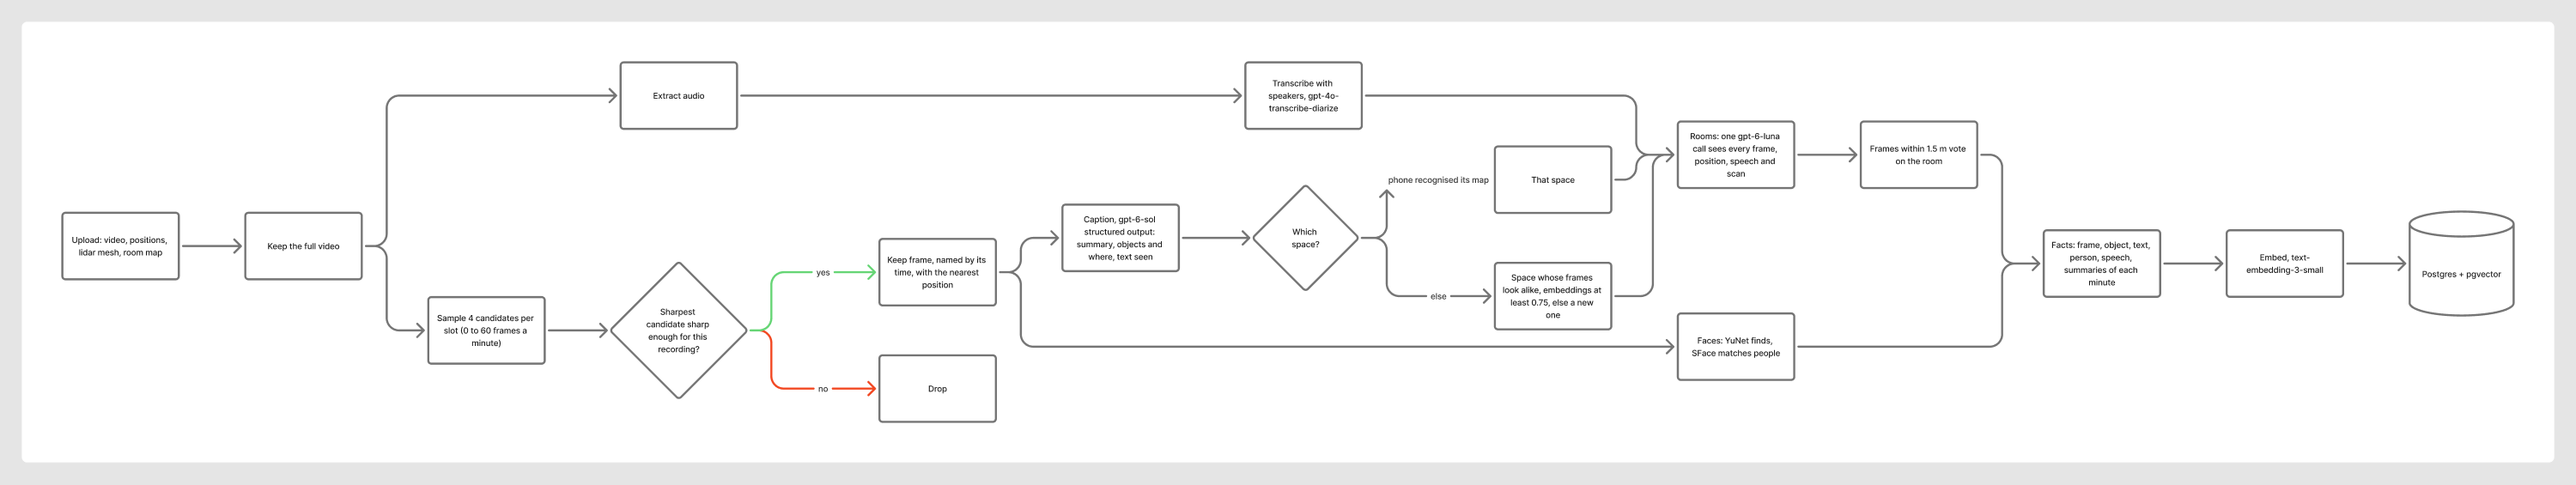
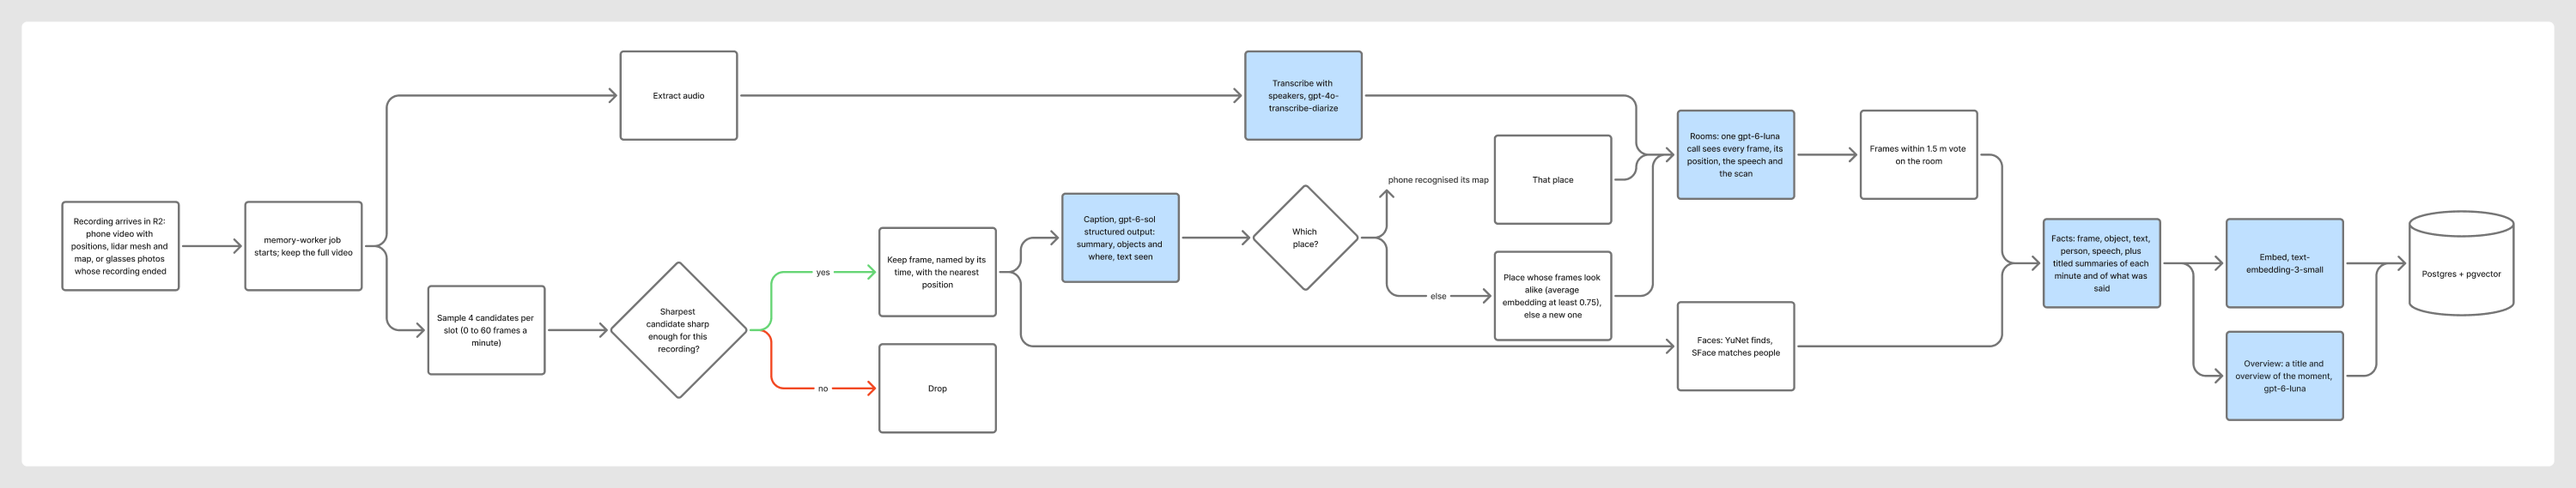
The README maps the repo: where things live, what happens to a photo and to a question, and the commands; the guide is trimmed to goals, rules and what isn't obvious; diagrams and log refreshed

diff --git a/CLAUDE.md b/CLAUDE.md
@@ -10,39 +10,32 @@ what a sign said, who they talked to, what they were doing, where something is. 
 ## Shape
 
 Recording -> kept frames and audio -> captions and transcript -> small facts, each embedded with its context,
-in Postgres (pgvector) -> agent with search tools -> judge and cost log. An iPhone app sits on top, and the glasses firmware comes last.
+in Postgres (pgvector) -> agent with search tools -> judge and cost log. An iPhone app sits on top, and the glasses
+send it photos.
 
 Words: a **moment** is one recording, start to finish; a **frame** is one photo kept from it; a **segment** is a
-stretch of a moment at one **place**, or on the move. Chats are stored as raw **messages**; every model call is a
-**model_call**, linked to the message or frame it was for.
+stretch of a moment at one **place**, or on the move; a **room** is a part of a place. Chats are stored as raw
+**messages**; every model call is a **model_call**, linked to the message or frame it was for.
+
+Where things live, what happens to a photo and to a question, and the commands (`make`) are in `README.md`. Keep
+it true when files move.
 
 ## Build plan
 
-Each part runs by itself and ends with something to look at. Parts 1 to 8 work from a recorded video.
+Each part runs by itself and ends with something to look at.
 
 1. **Recording to moment** (done): a video becomes kept frames and audio.
 2. **Database** (done): moments and frames stored in Postgres.
 3. **Captions** (done): each frame gets a summary, objects with where each one is, and text seen.
 4. **Speech-to-text** (done): the audio becomes timed transcript lines.
-5. **Facts and search** (done): captions and speech become facts, plus model-written summaries of each
-   minute and of what was said, and search finds them.
-6. **Agent** (done): ask a question, get an answer with its sources. The agent has two tools, search and
-   timeline; `--plain` is one search and one call, the baseline the evals compare it with.
-7. **Evals** (done): `memory.evals` asks every test question in both modes; a judge model grades each
-   answer, and the run reports scores, whether the right fact was retrieved, and cost. Each question has a `kind` and its
-   file names the moments it is about, so scores are reported per kind and stay stable as recordings are added;
-   `--repeat N` shows the spread.
-8. **API** (done): `memory/api.py` (FastAPI) serves moments, a moment's timeline, frame images, ask,
-   stats and settings. `POST /conversations/{id}/ask/stream` sends each step, the answer as it is written (with
-   [1] markers for its sources) and then the stored turn, as server-sent events. Chats get a title from a cheap
-   model; `/suggestions` writes questions from the newest records.
-9. **iPhone app** (done): SwiftUI in `app/`, with Ask (chats saved on the server, with follow-ups), Timeline,
-   Stats and Glasses screens. Tapping a source opens its frame: the photo, nearby frames, what was said, audio. Build and run
-   it in the iOS Simulator; the server's address is built in (`app/Config.xcconfig`).
-10. **Glasses firmware** (photos work, audio next): `firmware/glasses` builds `camera_test`, `display_test` and
-    `glasses`. The glasses send a photo at the frames-per-minute setting to the phone over Bluetooth, which
-    uploads it (`POST /glasses/frames`); a recording that stops becomes a moment. They run on the iPhone's USB-C power; the
-    battery isn't working yet.
+5. **Facts and search** (done): captions and speech become facts and summaries, and search finds them.
+6. **Agent** (done): an answer with its sources, from three tools (search, timeline, nearby). `--plain` is one
+   search and one call, the baseline the evals compare it with.
+7. **Evals** (done): every test question in each mode, graded by a judge model, scored per kind of question.
+8. **API** (done): FastAPI in `memory/api/`, one file per area. Answers stream as server-sent events.
+9. **iPhone app** (done): Ask, Timeline, Glasses, Places, People, Record and Stats.
+10. **Glasses firmware** (photos work, audio next): photos go to the phone over Bluetooth, with Wi-Fi as the
+    fallback; firmware updates arrive over Bluetooth. They run on USB-C power; the battery isn't working yet.
 
 ## Constraints
 
@@ -62,54 +55,33 @@ Each part runs by itself and ends with something to look at. Parts 1 to 8 work f
 
 Everything else is your call.
 
-## Handy
+## Good to know
 
-- Tests: `uv run pytest` in `server/`.
-- Every step runs from `server/` as `uv run python -m <module>`; `--help` lists its options.
-- Process a video in one go: `memory.pipeline <video> [--frames-per-minute N]` (frames, captions, transcript,
-  faces, facts). The single steps still run on their own: `memory.ingest.recording`, `.captions`, `.transcript`,
-  `.faces`, `.facts`. The original video is kept in the moment folder. Then `memory.agent "question"` (add
-  `--plain` for the baseline), or `memory.search "question"` to see the raw facts.
-- The app records moments on an iPhone through ARKit and uploads them (`POST /moments`); they process in the
-  background. Recording needs a real iPhone; the Simulator has no camera tracking. With a recording come
-  `poses.json` (where the phone was, 10 times a second), and on Pro phones `mesh.obj` (the lidar scan) and
-  `world.map` (ARKit's map, used to recognise the place next time).
-- A **place** is somewhere such as an apartment or a lecture hall, with an optional name, GPS circle and phone map. A
-  moment is filed at the place the phone's map recognised, else the place whose frames look most alike (average
-  embedding at least 0.75); for now each moment is one segment. GPS points are kept over time in `location`. Each
-  frame gets a **room** from one model call per moment that sees every frame, its position, the speech and the scan,
-  then a vote of frames within 1.5 m. `memory.places list`, `label <moment id>`, `rebuild`. Maps are in `data/places/`.
+- There is no local server mode. The server runs on Cloud Run (project `memory-glasses-2611`, `us-west1`), the
+  database is Neon and files are in Cloudflare R2; `data/` is a working copy that fills itself as files are needed.
+  The Mac runs the command-line steps against the same database and bucket, so they act on real data.
+- It is meant to cost $0 apart from OpenAI. Model prices are in `server/prices.json`; a model with no price there
+  is refused before any call.
+- New tables go in a new numbered file in `server/migrations/`; they are applied on the next connection.
+- Few bytes pass through the server: file requests redirect to short-lived R2 links, the app and the glasses
+  upload straight to R2, and captions give OpenAI an R2 link.
+- A glasses recording ends when the phone or glasses say so, or after five minutes without a photo. Photos that
+  arrive later start a new part. Photos are filed by when they were taken, not when they arrived.
+- A moment is filed at the place the phone's map recognised, else the place whose frames look most alike (average
+  embedding at least 0.75); for now each moment is one segment. Rooms come from one model call per moment, then a
+  vote of frames within 1.5 m.
 - A moment can be reprocessed at another frames per minute from its kept video; frames are named by their time,
   so ones that already exist keep their captions.
-- The agent has three tools: search, timeline and nearby (what was seen near a frame, in the same mapped place).
-  `memory.evals --mode agent --mode no-nearby` compares it with and without nearby.
-- People: `memory.people list`, `name <id> "Sam"`, `merge <id> <into id>`, `forget <id>`, or the People screen in
-  the app. Faces use OpenCV's YuNet and SFace models in the ignored `server/models/` (from github.com/opencv/opencv_zoo).
-  The user has written consent from the people recorded.
-- Named GPS spots: `memory.gps add "Home" <lat> <lon> --radius 75`, `memory.gps list`.
-- Model prices are in `server/prices.json`. A model with no price there is refused before any call.
-- Glasses over Bluetooth (in progress): the firmware advertises "Memory Glasses" and streams frames, takes settings and
-  firmware updates over BLE (service 6e1f0001-…); with no phone for 30 s it falls back to Wi-Fi. Phone and glasses prove to each other
-  that they hold the server token before photos, settings or updates pass. `firmware/glasses/flash.sh`
-  flashes over USB with the two-slot OTA partition table; `publish.sh` uploads the app image and `firmware/latest.json` to R2.
-- The Bluetooth protocol is defined once, in the Rust crate `firmware/protocol`. `firmware/protocol/check.sh` runs its
-  tests, regenerates `app/MemoryGlasses/Glasses/GlassesProtocol.swift` and `vectors.json`, and checks the app's Swift packet
-  code against them. Change the protocol there, never in the generated file.
-- A glasses recording ends when the phone or glasses say so (`POST /glasses/recordings/{id}/end`), or after five
-  minutes without a photo. Its state is in the `recording` table; photos that arrive later start a new part.
-- Database: Neon (`memory-glasses` org), from `DATABASE_URL` in `server/.env`. `uv run python -m memory.db list`. New
-  tables go in a new numbered file in `server/migrations/`.
-- Files live in Cloudflare R2 (`R2_ACCOUNT_ID`, `R2_ACCESS_KEY_ID`, `R2_SECRET_ACCESS_KEY`, `R2_BUCKET` in
-  `server/.env`); `data/` is a working copy that fills itself as files are needed (`memory.storage`).
-  `memory.storage sync` uploads what's missing; `check` compares the two. File requests redirect to short-lived R2
-  links, the app uploads recordings straight to R2 (`POST /uploads`), photos from the glasses are PUT to an R2 link
-  from the previous reply and then announced to the server (`X-Uploaded`), and captions give OpenAI an R2 link, so
-  few bytes pass through the server.
-- Cloud Run (project `memory-glasses-2611`, `us-west1`), meant to cost $0: `server/deploy/secrets.sh` copies the
-  secrets from `.env` into Secret Manager, then `R2_ACCOUNT_ID=… server/deploy/deploy.sh` builds the image here,
-  deploys the `memory-server` service and the `memory-worker` job (slow work: `memory.worker <job id>`), and has Cloud
-  Scheduler call `POST /glasses/check` every minute. There is no local server mode: the Mac runs the command-line
-  steps against the same database and bucket.
-- Test clips, both in the ignored `data/samples/`: `nasa/crew-quarters-tour.webm` (public-domain NASA tour,
-  2 minutes, with speech) and `home/IMG_0161.MOV` (the user's own 12-second walk through their home, with
-  location). The user's recordings are real data on their own account; don't add test users or fake data.
+- Recording in the app needs a real iPhone; the Simulator has no camera tracking.
+- The Bluetooth protocol is defined once, in `firmware/protocol`. Change it there and run `make protocol`; never
+  edit the generated `GlassesProtocol.swift`. Phone and glasses prove to each other that they hold the server token
+  before photos, settings or updates pass.
+- Glasses Wi-Fi name, password, server and token go in the ignored `firmware/glasses/glasses.toml`; the app's
+  token goes in the ignored `app/Local.xcconfig`. Install a new app before publishing firmware that changes the
+  protocol.
+- Evals: each question has a kind and its file names the moments it is about. Personal questions live in the
+  ignored `data/evals/`.
+- Faces use OpenCV's YuNet and SFace models in the ignored `server/models/`. The user has written consent from
+  the people recorded.
+- Test clips are in the ignored `data/samples/`. The user's recordings are real data on their own account; don't
+  add test users or fake data.

diff --git a/README.md b/README.md
@@ -3,13 +3,79 @@
 Camera glasses that record what you see and hear, and an agent that answers any question about it: what a sign
 said, who you talked to, what you were doing, where something is. CS class final project.
 
-- `server/`: the software. Run `uv run pytest` there to test it.
-- `firmware/`: code that runs on the glasses.
-- `hardware/`: CAD, print files, parts list and wiring. Start at [hardware/README.md](hardware/README.md).
-- `CLAUDE.md`: goals, constraints and the build plan, with what's done.
+## Where things live
 
-Try it on a video, from `server/`:
+| Folder | What it is |
+| --- | --- |
+| [server/](server/) | Python. Turns recordings into searchable facts and answers questions. Runs on Cloud Run. |
+| [app/](app/) | The SwiftUI iPhone app: Ask, Timeline, Glasses, Places, People, Record and Stats. |
+| [firmware/glasses/](firmware/glasses/) | Rust for the glasses (XIAO ESP32-S3 Sense): camera, display, Bluetooth, Wi-Fi. |
+| [firmware/protocol/](firmware/protocol/) | The Bluetooth protocol, defined once in Rust. Generates the app's constants. |
+| [hardware/](hardware/) | CAD, print files, parts and wiring. Start at [hardware/README.md](hardware/README.md). |
+| [docs/](docs/) | The class overview ([PROJECT.md](docs/PROJECT.md)) and the work log ([LOG.md](docs/LOG.md)). |
 
-```bash
-uv run python -m memory.ingest.recording path/to/video.mov
-```
+Inside `server/memory/`, the same word means the same thing at every layer:
+
+| Idea | The work | Its routes | Its tables |
+| --- | --- | --- | --- |
+| Moments | [pipeline.py](server/memory/pipeline.py), [ingest/](server/memory/ingest/) | [api/moments.py](server/memory/api/moments.py) | [db/moments.py](server/memory/db/moments.py), [db/facts.py](server/memory/db/facts.py) |
+| Asking | [agent.py](server/memory/agent.py), [search.py](server/memory/search.py), [chat.py](server/memory/chat.py) | [api/chats.py](server/memory/api/chats.py) | [db/chats.py](server/memory/db/chats.py), [db/costs.py](server/memory/db/costs.py) |
+| Glasses | [glasses.py](server/memory/glasses.py) | [api/glasses.py](server/memory/api/glasses.py) | [db/recordings.py](server/memory/db/recordings.py) |
+| Slow work | [jobs.py](server/memory/jobs.py), [worker.py](server/memory/worker.py) | [api/uploads.py](server/memory/api/uploads.py) | [db/jobs.py](server/memory/db/jobs.py) |
+| Places and rooms | [places.py](server/memory/places.py), [gps.py](server/memory/gps.py) | [api/places.py](server/memory/api/places.py) | [db/places.py](server/memory/db/places.py) |
+| People | [people.py](server/memory/people.py), [ingest/faces.py](server/memory/ingest/faces.py) | [api/people.py](server/memory/api/people.py) | [db/people.py](server/memory/db/people.py) |
+| Files | [storage.py](server/memory/storage.py), [moment_files.py](server/memory/moment_files.py) | | Cloudflare R2 |
+| Evals | [evals.py](server/memory/evals.py), [evals/questions.json](server/evals/questions.json) | [api/settings.py](server/memory/api/settings.py) (stats) | |
+
+## What happens to a photo
+
+1. The glasses take a photo and send it over Bluetooth in pieces: [link.rs](firmware/glasses/src/link.rs), using
+   the packets in [protocol](firmware/protocol/src/lib.rs).
+2. The phone checks it and confirms: [GlassesLink.swift](app/MemoryGlasses/Glasses/GlassesLink.swift).
+3. The phone uploads it to storage and tells the server:
+   [FrameUploader.swift](app/MemoryGlasses/Glasses/FrameUploader.swift) to `POST /glasses/frames` in
+   [api/glasses.py](server/memory/api/glasses.py).
+4. The server counts it in the `recording` table: [glasses.py](server/memory/glasses.py).
+5. When the recording ends, a worker job joins the photos into a video: `process_glasses` in
+   [jobs.py](server/memory/jobs.py).
+6. The pipeline keeps the sharp frames, captions them, finds faces and rooms, and writes facts with embeddings:
+   [pipeline.py](server/memory/pipeline.py). The result is a moment.
+
+A recording made in the app skips steps 1 to 5: it uploads the video straight to storage
+([Upload.swift](app/MemoryGlasses/Record/Upload.swift)) and the pipeline runs on it.
+
+## What happens to a question
+
+1. You type it in the app: [ChatView.swift](app/MemoryGlasses/Ask/ChatView.swift).
+2. The app posts it and reads the answer as it streams: [Conversations.swift](app/MemoryGlasses/Ask/Conversations.swift)
+   to `POST /conversations/{id}/ask/stream` in [api/chats.py](server/memory/api/chats.py).
+3. The agent decides what to look up, with three tools (search, timeline, nearby): [agent.py](server/memory/agent.py).
+4. Search finds facts by meaning and by keyword and merges the two: [search.py](server/memory/search.py).
+5. The agent writes the answer with `[1]` markers for its sources; the raw messages and the cost of every model call
+   are saved: [db/chats.py](server/memory/db/chats.py).
+6. Tapping a source opens the Timeline at that photo: [MomentView.swift](app/MemoryGlasses/Timeline/MomentView.swift).
+
+## Commands
+
+Run `make` to list them.
+
+| Command | What it does |
+| --- | --- |
+| `make test` | Run the server tests |
+| `make evals` | Ask every test question and grade the answers |
+| `make moments` | List the recorded moments |
+| `make app` | Build the iPhone app for the Simulator |
+| `make protocol` | Test the Bluetooth protocol and check the app against it |
+| `make firmware` | Build the glasses firmware |
+| `make flash` | Build the firmware and flash it over USB |
+| `make publish` | Publish the firmware so the glasses update themselves |
+| `make deploy` | Build the server and deploy it to Cloud Run |
+
+Everything else on the server runs from `server/` as `uv run python -m memory.<module>`, for example
+`memory.agent "what did the sign say?"`, `memory.search "sign"`, `memory.pipeline video.mov`,
+`memory.places list`, `memory.people list`. `--help` lists each one's options.
+
+## More
+
+- The diagrams: [FigJam board](https://www.figma.com/board/io53Tnf7YwhP0FyOC8mVFf).
+- Goals, the words used (moment, frame, segment, place) and the rules the code follows: [CLAUDE.md](CLAUDE.md).

diff --git a/docs/LOG.md b/docs/LOG.md
@@ -7,5 +7,6 @@ Hours are estimated from when work was committed each day.
 | 11/11/2026 | Set up the project. Built recording to moment, the Postgres database, frame captions, speech-to-text, and facts with embeddings and search | 3 |
 | 11/16/2026 | Built the agent with search and timeline tools, evals with a judge model, and the API. Wrote the iPhone app (Ask, Timeline, Stats, Glasses), saved chats and face matching. iPhone recording with positions, the lidar room in 3D, and recognising rooms across moments | 8 |
 | 11/17/2026 | Paired the phone over Tailscale. Soldered the board; camera and display tests in Rust. Glasses send photos over the iPhone hotspot and become moments; display size setting | 9 |
-| 11/18/2026 | Display setup in the app (focus pattern, size, position, mirror), recording switch. Project overview. Reworked the data model in FigJam (places, segments, raw chat messages) and designed a new way to answer questions | 5 |
-| **Total** | | **25** |
+| 11/18/2026 | Display setup in the app (focus pattern, size, position, mirror), recording switch. Project overview. Reworked the data model in FigJam (places, segments, raw chat messages) and designed a new way to answer questions. Moved hosting to Neon, Cloudflare R2 and Cloud Run. Chat and Timeline redesign. Glasses send photos over Bluetooth and update their firmware over it | 9 |
+| 11/20/2026 | Code review fixes for late and misdated photos and stuck updates. Removed the local mode, moved recordings into the database, one Bluetooth protocol in Rust, eval questions by kind (42 questions). Reorganised the repo and rewrote the README | 3 |
+| **Total** | | **32** |

diff --git a/docs/PROJECT.md b/docs/PROJECT.md
@@ -17,7 +17,7 @@ honest "I don't know".
 
 The graded part is the LLM software: embeddings, structured output, tool calling and a judge model. An iPhone
 app records and asks questions today. The glasses (an ESP32-S3 with a camera and a small display) send photos
-over the phone's hotspot. Audio from the glasses comes next.
+to the phone over Bluetooth. Audio from the glasses comes next.
 
 ## System design
 
@@ -104,5 +104,7 @@ iPhone app. The glasses already send photos. What's left:
 
 - `server/`: Python with `uv`: pipeline, agent, evals and API.
 - `app/`: the SwiftUI iPhone app.
-- `firmware/`: Rust for the XIAO ESP32-S3 Sense.
+- `firmware/glasses/`: Rust for the XIAO ESP32-S3 Sense.
+- `firmware/protocol/`: the Bluetooth protocol, defined once in Rust.
 - `hardware/`: CAD, print files, parts and wiring.
+- `docs/`: this overview and the work log. The [README](../README.md) maps the code.
